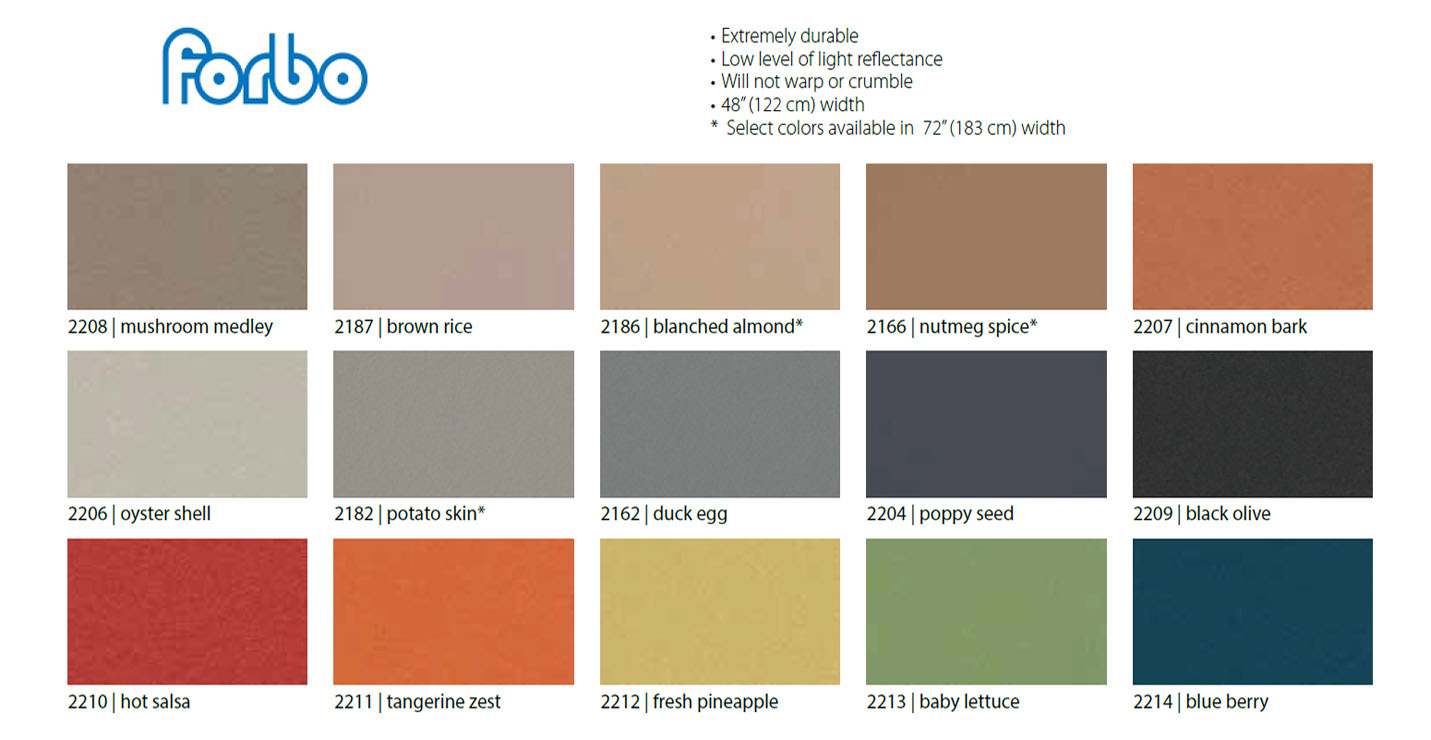
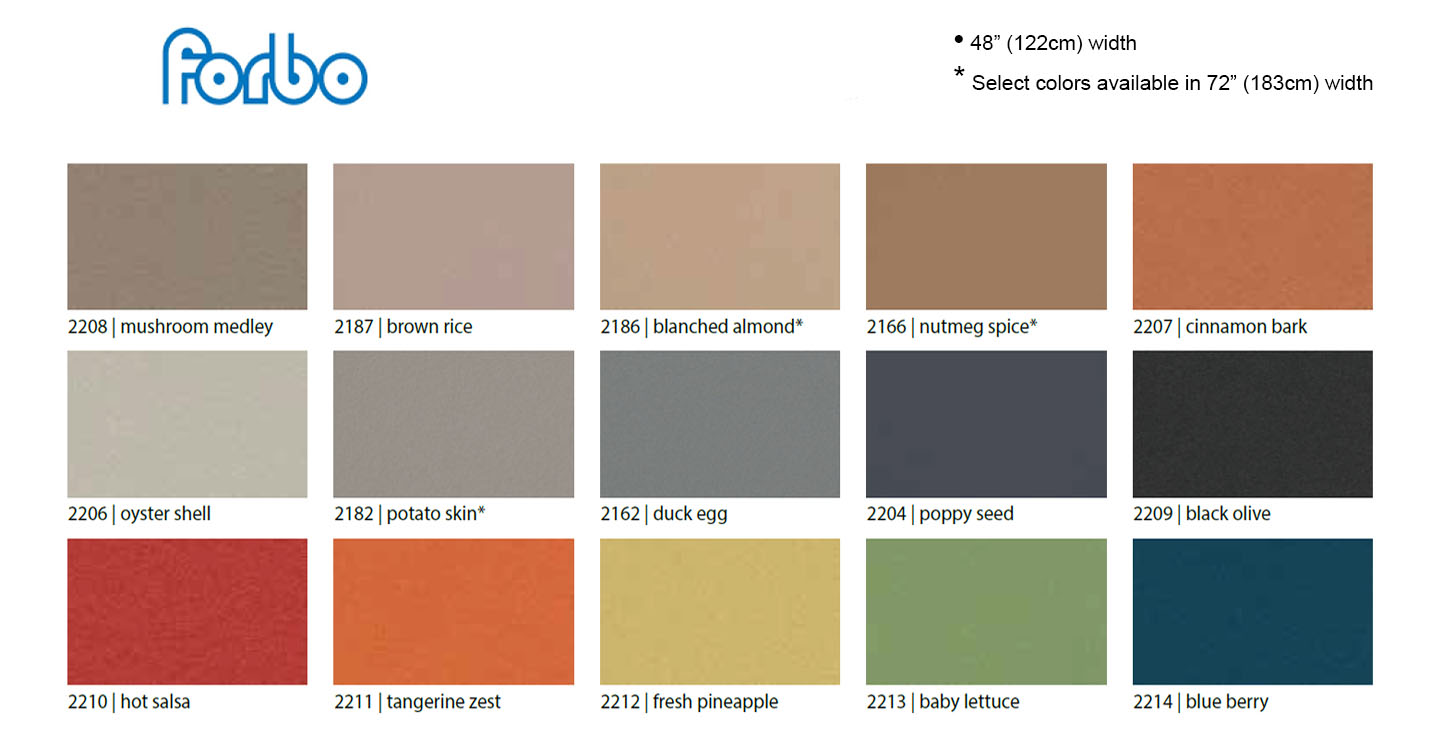
Forbo Tackboard: Update Colors and Description

Changed region(s): [[0.492, 0.0311, 0.7379, 0.1865], [0.6765, 0.0932, 0.9532, 0.1243], [0.6765, 0.0311, 0.7994, 0.0622]]

diff --git a/src/pages/ProductsPage/VisualDisplays/TackboardForbo.js b/src/pages/ProductsPage/VisualDisplays/TackboardForbo.js
@@ -42,13 +42,12 @@ const TackboardForbo = () => {
           controls={false}
         >
           <li>
-            Our standard tackboards incorporate a 1/4" natural Cork with a 1/4"
-            Hardboard backing and aluminum trim.
+            Forbo tackboards incorporate a 1/4" Forbo with a 1/4" Hardboard
+            backing and aluminum trim.
           </li>
-          <li>
-            Or customize it with Vinyl or Fabric face wrapped onto a 1/2"
-            Hardboard backing.
-          </li>
+          <li>Extremely Durable.</li>
+          <li>Low level of light reflectance.</li>
+          <li>Will not warp or crumble.</li>
         </HeroBody>
       </HeroProduct>
       <ProductInfo>
